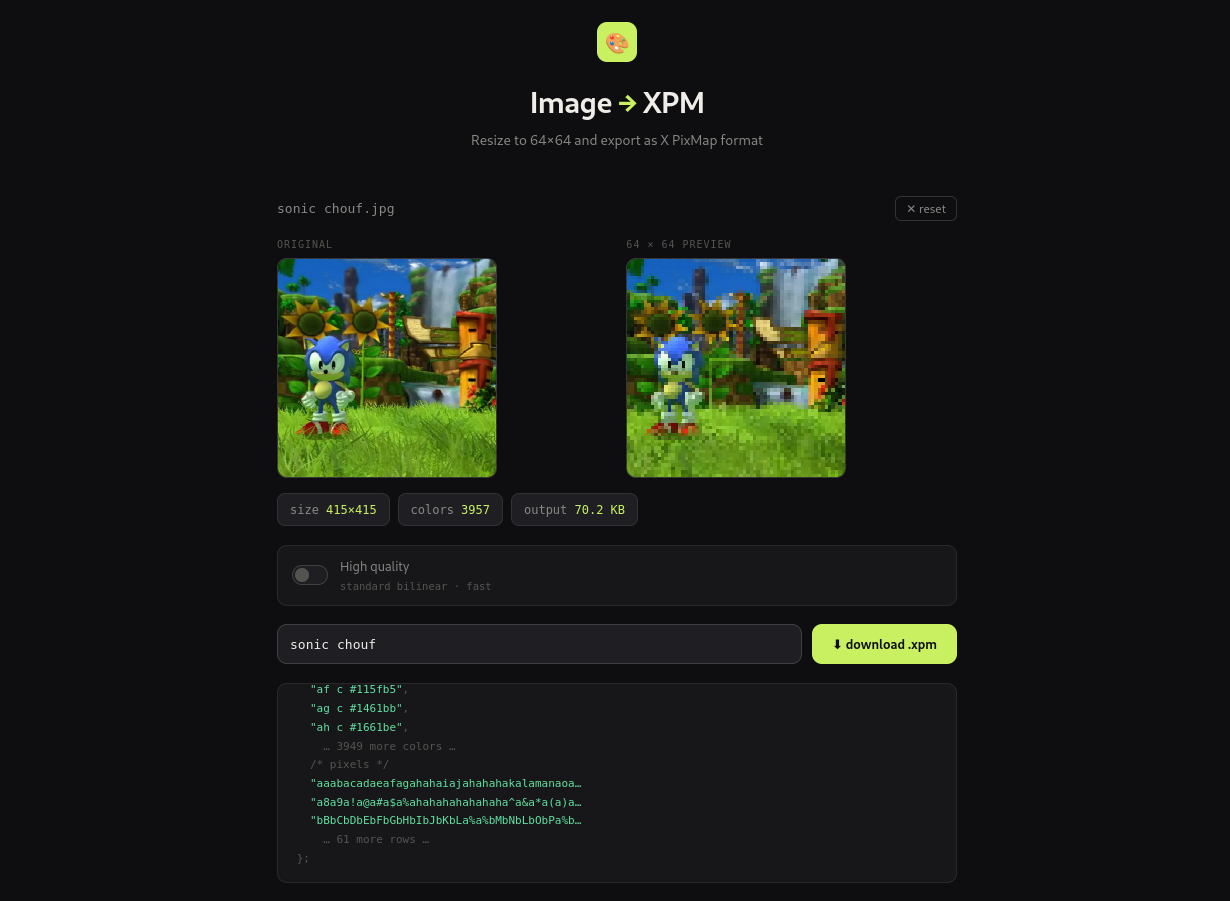
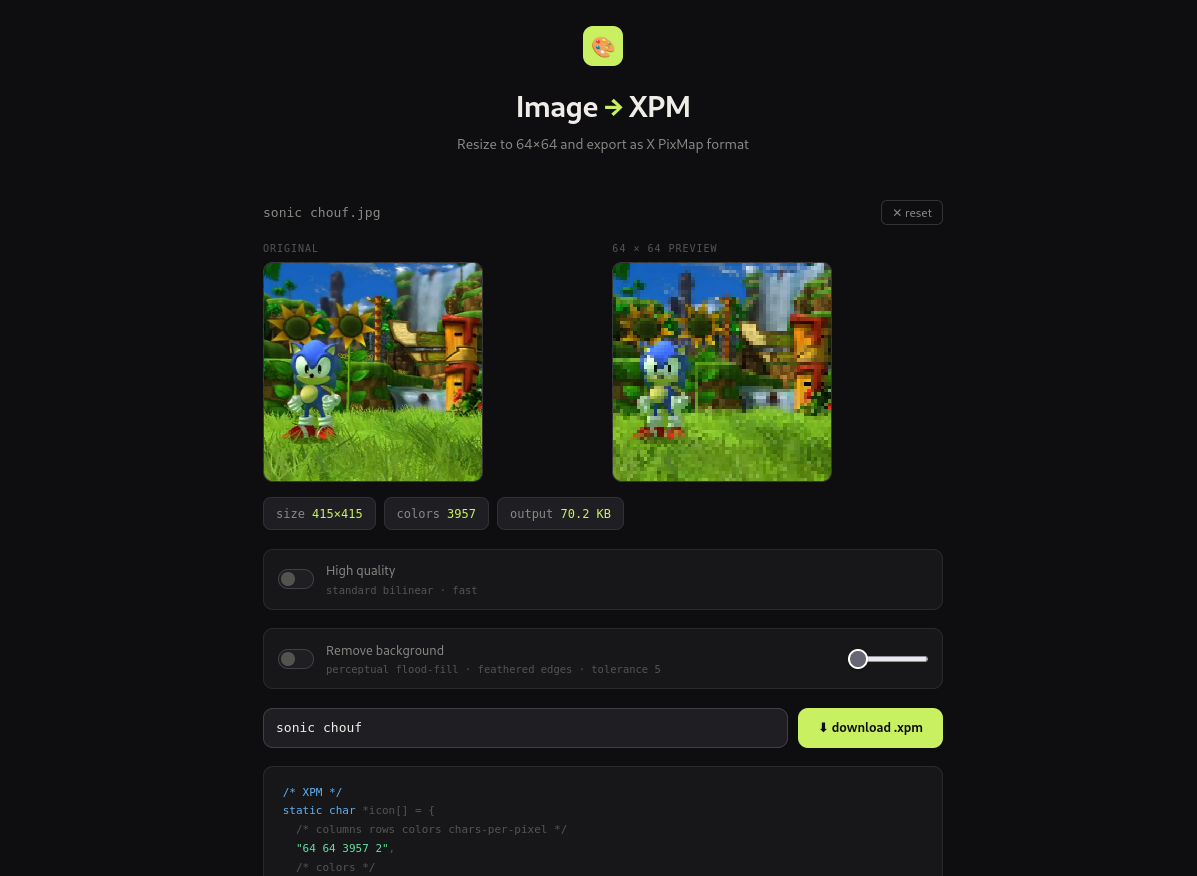
Update: Background Remove

diff --git a/app/index.html b/app/index.html
@@ -233,6 +233,19 @@
       </div>
     </div>
 
+    <!-- Remove background toggle -->
+    <div class="hq-row" id="bg-row" onclick="toggleBG()">
+      <div class="toggle" id="bg-toggle"><div class="toggle-knob"></div></div>
+      <div class="hq-text">
+        <span class="hq-name">Remove background</span>
+        <span class="hq-hint" id="bg-hint">perceptual flood-fill · feathered edges · tolerance <span id="tol-val">30</span></span>
+      </div>
+      <input type="range" id="tol-slider" min="5" max="120" value="30"
+        onclick="event.stopPropagation()"
+        oninput="event.stopPropagation(); onTolChange(this.value)"
+        style="margin-left:auto; width:80px; accent-color:var(--accent); cursor:pointer; flex-shrink:0;">
+    </div>
+
     <div class="controls">
       <input type="text" id="filename-input" value="icon_64" placeholder="filename (no extension)">
       <button id="btn-download" onclick="downloadXPM()">⬇ download .xpm</button>
@@ -243,7 +256,7 @@
 </div>
 
 <script>
-  let xpmContent = '', hq = false, currentImg = null;
+  let xpmContent = '', hq = false, removeBg = false, bgTolerance = 30, currentImg = null;
 
   const dropZone       = document.getElementById('drop-zone');
   const fileInput      = document.getElementById('file-input');
@@ -295,20 +308,194 @@
   }
 
   function render() {
+    // always work from original full-res pixels
+    let src = canvasOrig.getContext('2d').getImageData(0, 0, currentImg.naturalWidth, currentImg.naturalHeight);
+
+    // remove bg on full-res first (much cleaner than on 64×64)
+    if (removeBg) src = removeBackground(src, currentImg.naturalWidth, currentImg.naturalHeight, bgTolerance);
+
     let scaled;
     if (hq) {
-      const src = canvasOrig.getContext('2d').getImageData(0, 0, currentImg.naturalWidth, currentImg.naturalHeight);
       scaled = resizeLanczos(src, currentImg.naturalWidth, currentImg.naturalHeight, 64, 64);
       scaled = unsharpMask(scaled, 64, 64);
       scaled = floydSteinberg(scaled, 64, 64);
-      canvasScaled.getContext('2d').putImageData(scaled, 0, 0);
     } else {
+      // draw the (possibly bg-removed) source into an offscreen canvas, then scale
+      const tmp = document.createElement('canvas');
+      tmp.width = currentImg.naturalWidth; tmp.height = currentImg.naturalHeight;
+      tmp.getContext('2d').putImageData(src, 0, 0);
       const ctx = canvasScaled.getContext('2d');
       ctx.clearRect(0, 0, 64, 64);
-      ctx.drawImage(currentImg, 0, 0, currentImg.naturalWidth, currentImg.naturalHeight, 0, 0, 64, 64);
+      ctx.drawImage(tmp, 0, 0, currentImg.naturalWidth, currentImg.naturalHeight, 0, 0, 64, 64);
+      scaled = ctx.getImageData(0, 0, 64, 64);
     }
+    canvasScaled.getContext('2d').putImageData(scaled, 0, 0);
     const name = (document.getElementById('filename-input').value.trim() || 'icon_64').replace(/[^a-zA-Z0-9_]/g, '_');
     xpmContent = generateXPM(canvasScaled, name);
+  }
+
+  function toggleBG() {
+    removeBg = !removeBg;
+    document.getElementById('bg-toggle').classList.toggle('on', removeBg);
+    document.getElementById('bg-row').classList.toggle('on', removeBg);
+    if (currentImg) render();
+  }
+
+  function onTolChange(val) {
+    bgTolerance = parseInt(val);
+    document.getElementById('tol-val').textContent = val;
+    if (removeBg && currentImg) render();
+  }
+
+  /* ── Background removal ──────────────────────────────────────────────────
+     Strategy:
+     1. Convert to CIE L*a*b* for perceptual colour distance (much better than RGB sum)
+     2. Flood-fill every pixel on ALL four edges as seeds (not just corners)
+     3. Build a float alpha-mask (0 = bg, 1 = fg)
+     4. Gaussian-blur the mask slightly then threshold → smooth edge without blur bleed
+     5. Apply mask back to RGBA
+  ─────────────────────────────────────────────────────────────────────── */
+  function removeBackground(imgData, w, h, tol) {
+    const src = imgData.data;
+    const out = new ImageData(w, h);
+    out.data.set(src);
+    const od = out.data;
+
+    // ── RGB → Lab helpers ──
+    function srgbToLinear(v) {
+      v /= 255;
+      return v <= 0.04045 ? v / 12.92 : Math.pow((v + 0.055) / 1.055, 2.4);
+    }
+    function labF(t) { return t > 0.008856 ? Math.cbrt(t) : 7.787 * t + 16/116; }
+    function rgbToLab(r, g, b) {
+      const rl = srgbToLinear(r), gl = srgbToLinear(g), bl = srgbToLinear(b);
+      // D65 illuminant
+      const X = (rl*0.4124564 + gl*0.3575761 + bl*0.1804375) / 0.95047;
+      const Y = (rl*0.2126729 + gl*0.7151522 + bl*0.0721750) / 1.00000;
+      const Z = (rl*0.0193339 + gl*0.1191920 + bl*0.9503041) / 1.08883;
+      const fx = labF(X), fy = labF(Y), fz = labF(Z);
+      return [116*fy - 16, 500*(fx-fy), 200*(fy-fz)];
+    }
+    function labDist(L1,a1,b1, L2,a2,b2) {
+      const dL=L1-L2, da=a1-a2, db=b1-b2;
+      return Math.sqrt(dL*dL + da*da + db*db);
+    }
+
+    // precompute Lab for every pixel
+    const labBuf = new Float32Array(w * h * 3);
+    for (let i = 0; i < w * h; i++) {
+      const [L,a,b] = rgbToLab(src[i*4], src[i*4+1], src[i*4+2]);
+      labBuf[i*3]=L; labBuf[i*3+1]=a; labBuf[i*3+2]=b;
+    }
+
+    // ── Flood fill from all border pixels ──
+    // mask: 0=unknown, 1=background, 2=foreground
+    const mask = new Uint8Array(w * h); // 0 = unvisited
+    const queue = [];
+
+    // seed: entire border
+    for (let x = 0; x < w; x++) { queue.push(x); queue.push(0); queue.push(x); queue.push(h-1); }
+    for (let y = 1; y < h-1; y++) { queue.push(0); queue.push(y); queue.push(w-1); queue.push(y); }
+
+    // For each seed, record its own Lab as the bg reference
+    // We sample the border colour to create a "bg palette"
+    // Then flood with tolerance against that seed's colour
+    const visited = new Uint8Array(w * h);
+
+    // collect unique border colours in Lab
+    const borderLabs = [];
+    for (let bi = 0; bi < queue.length; bi += 2) {
+      const x = queue[bi], y = queue[bi+1];
+      const idx = y * w + x;
+      if (src[idx*4+3] < 10) { visited[idx] = 1; mask[idx] = 1; continue; }
+      borderLabs.push([labBuf[idx*3], labBuf[idx*3+1], labBuf[idx*3+2]]);
+    }
+
+    // adaptive: pick the most representative border colour via simple median
+    function medianLab(labs) {
+      if (!labs.length) return [50,0,0];
+      const L = labs.map(l=>l[0]).sort((a,b)=>a-b);
+      const a = labs.map(l=>l[1]).sort((a,b)=>a-b);
+      const b = labs.map(l=>l[2]).sort((a,b)=>a-b);
+      const m = Math.floor(labs.length/2);
+      return [L[m], a[m], b[m]];
+    }
+    const [bL, ba, bb] = medianLab(borderLabs);
+
+    // BFS flood fill
+    const stack = [];
+    for (let bi = 0; bi < queue.length; bi += 2) {
+      const x = queue[bi], y = queue[bi+1];
+      const idx = y * w + x;
+      if (visited[idx]) continue;
+      visited[idx] = 1;
+      const d = labDist(labBuf[idx*3],labBuf[idx*3+1],labBuf[idx*3+2], bL,ba,bb);
+      if (d <= tol) { mask[idx] = 1; stack.push(idx); }
+    }
+
+    while (stack.length) {
+      const idx = stack.pop();
+      const x = idx % w, y = (idx / w) | 0;
+      const nb = [idx-1, idx+1, idx-w, idx+w];
+      const nx = [x-1,   x+1,   x,    x];
+      const ny = [y,     y,     y-1,  y+1];
+      for (let k = 0; k < 4; k++) {
+        const ni = nb[k];
+        if (nx[k]<0||nx[k]>=w||ny[k]<0||ny[k]>=h) continue;
+        if (visited[ni]) continue;
+        visited[ni] = 1;
+        const d = labDist(labBuf[ni*3],labBuf[ni*3+1],labBuf[ni*3+2], bL,ba,bb);
+        if (d <= tol) { mask[ni] = 1; stack.push(ni); }
+      }
+    }
+
+    // ── Morphological closing: fill small holes in bg mask (1px dilate then erode) ──
+    const mask2 = new Uint8Array(mask);
+    // dilate bg
+    for (let y=1;y<h-1;y++) for (let x=1;x<w-1;x++) {
+      if (mask[y*w+x]===1) {
+        mask2[(y-1)*w+x]=1; mask2[(y+1)*w+x]=1;
+        mask2[y*w+(x-1)]=1; mask2[y*w+(x+1)]=1;
+      }
+    }
+    // erode bg back
+    const mask3 = new Uint8Array(mask2);
+    for (let y=1;y<h-1;y++) for (let x=1;x<w-1;x++) {
+      if (mask2[y*w+x]===1) {
+        if (!mask2[(y-1)*w+x]||!mask2[(y+1)*w+x]||!mask2[y*w+(x-1)]||!mask2[y*w+(x+1)]) {
+          mask3[y*w+x]=0; // restore edge pixel to fg
+        }
+      }
+    }
+
+    // ── Feather: build float alpha, blur it along the bg/fg boundary ──
+    const alpha = new Float32Array(w * h);
+    for (let i = 0; i < w * h; i++) alpha[i] = mask3[i] ? 0.0 : 1.0;
+
+    // 1-pass box blur on alpha (radius 1) only near edges
+    const alphaB = new Float32Array(alpha);
+    for (let y=1;y<h-1;y++) for (let x=1;x<w-1;x++) {
+      // only blur if we're near a transition
+      const c = alpha[y*w+x];
+      const hasTransition = (
+        alpha[(y-1)*w+x]!==c || alpha[(y+1)*w+x]!==c ||
+        alpha[y*w+(x-1)]!==c || alpha[y*w+(x+1)]!==c
+      );
+      if (hasTransition) {
+        alphaB[y*w+x] = (
+          alpha[(y-1)*w+(x-1)] + alpha[(y-1)*w+x] + alpha[(y-1)*w+(x+1)] +
+          alpha[y*w+(x-1)]     + alpha[y*w+x]     + alpha[y*w+(x+1)] +
+          alpha[(y+1)*w+(x-1)] + alpha[(y+1)*w+x] + alpha[(y+1)*w+(x+1)]
+        ) / 9;
+      }
+    }
+
+    // ── Apply alpha to output ──
+    for (let i = 0; i < w * h; i++) {
+      const a = Math.round(alphaB[i] * (src[i*4+3]));
+      od[i*4+3] = a;
+    }
+    return out;
   }
 
   /* ── Lanczos ── */
